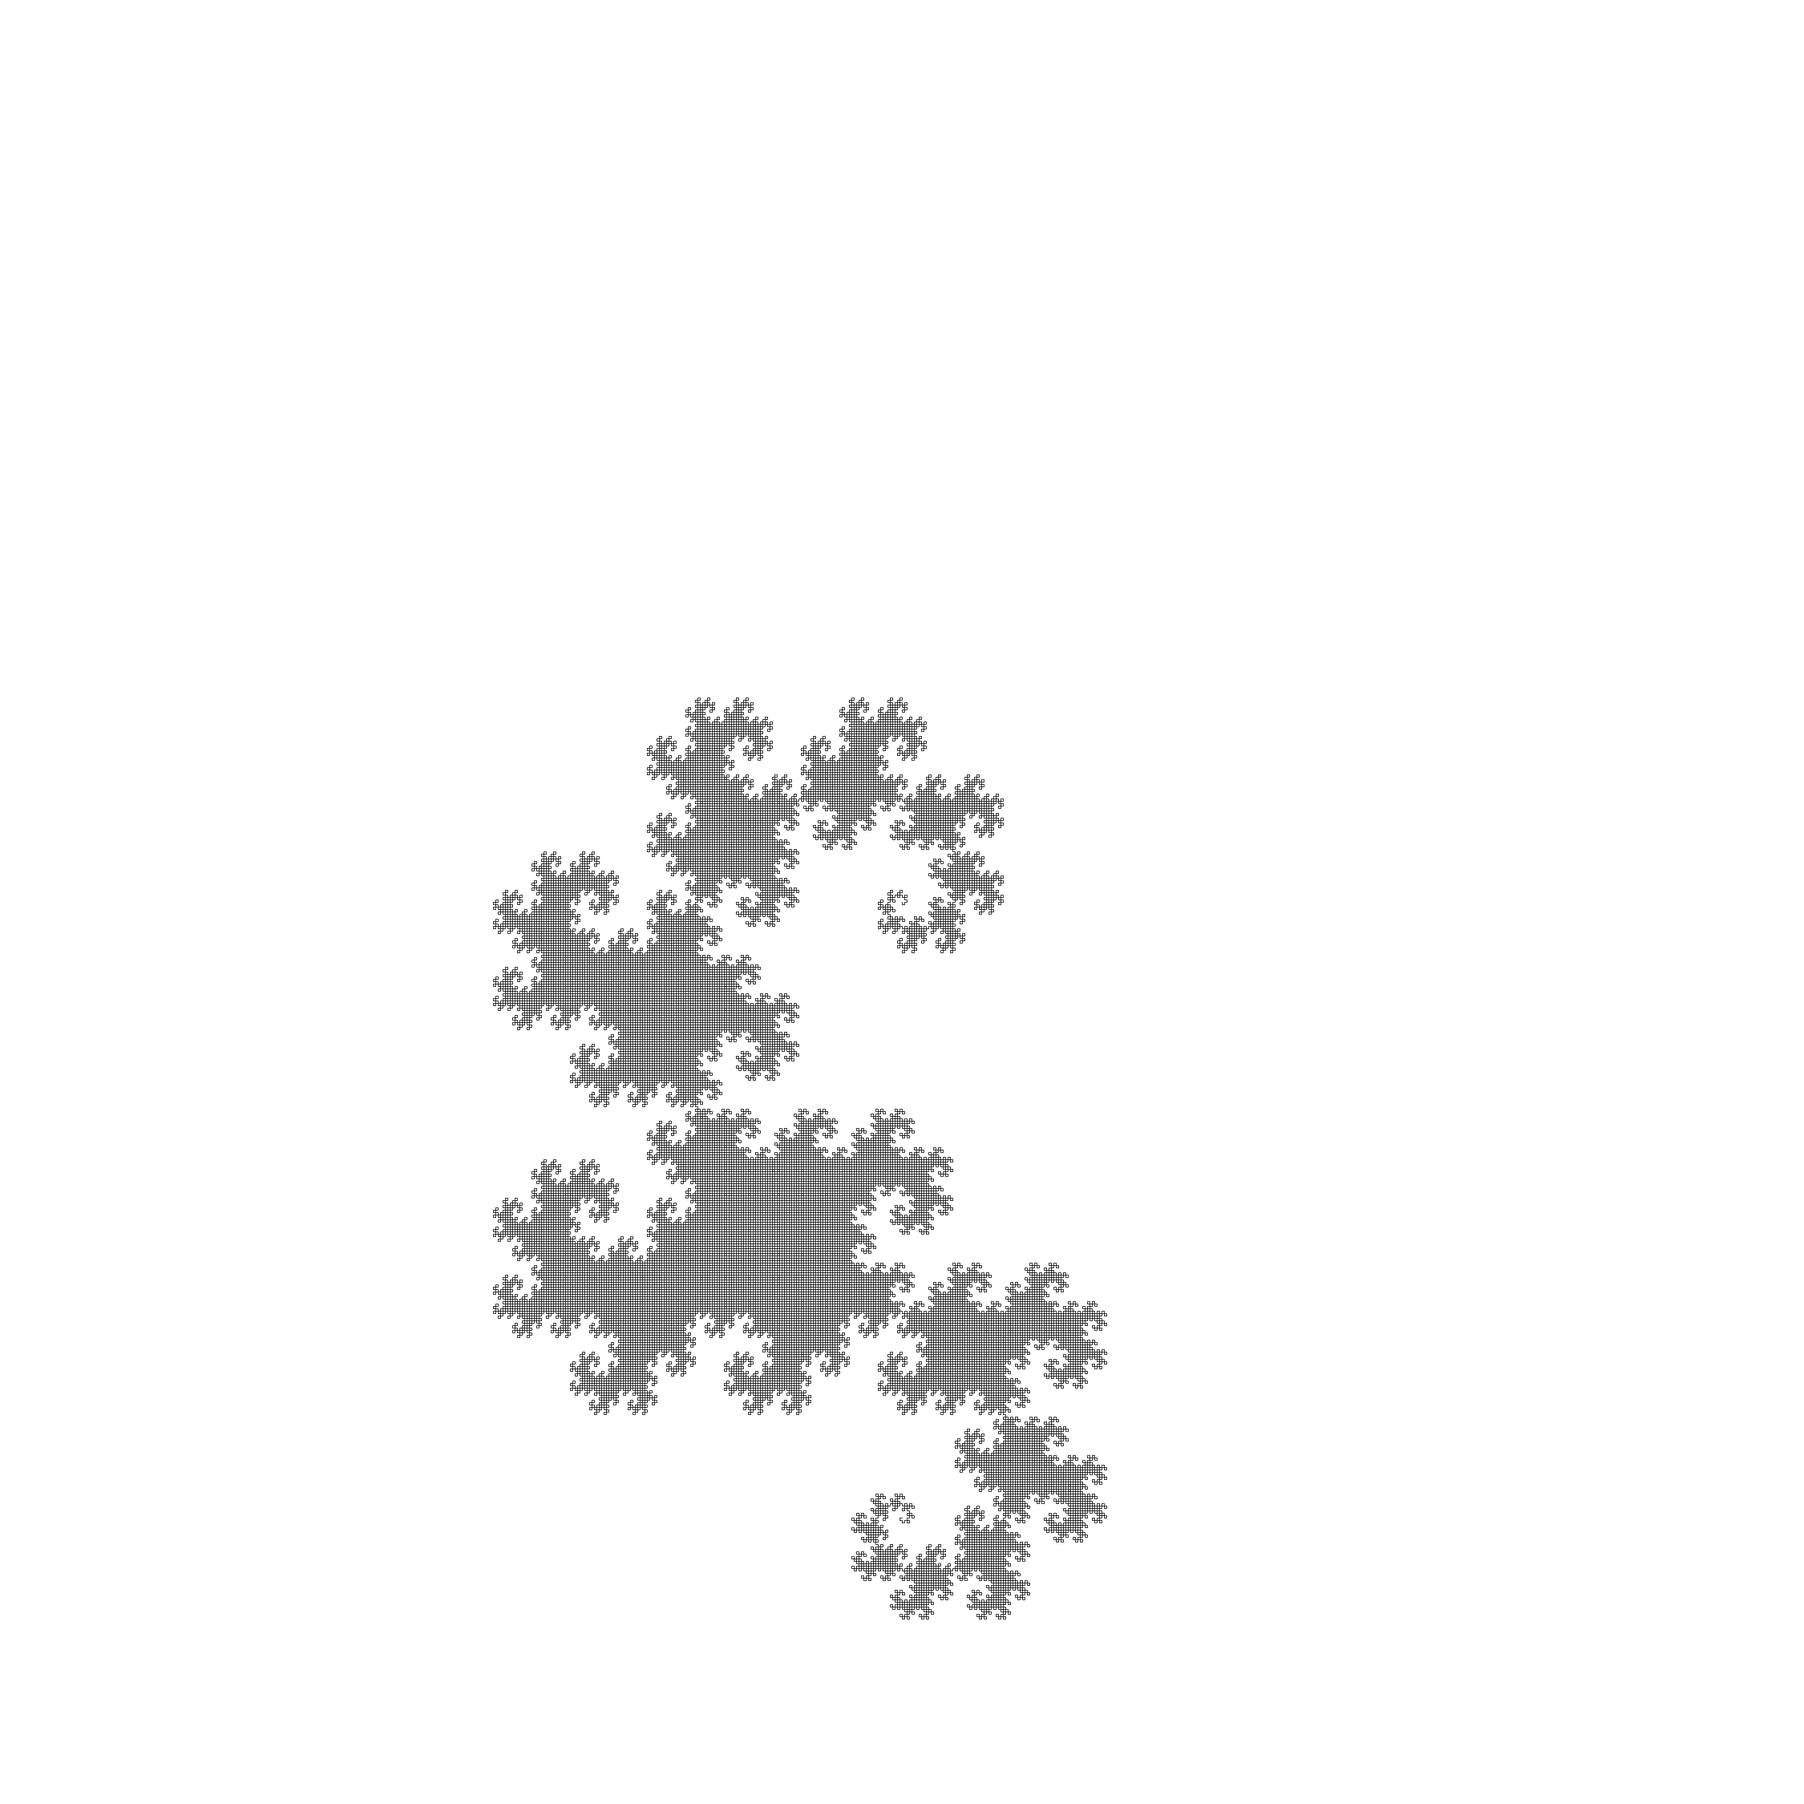
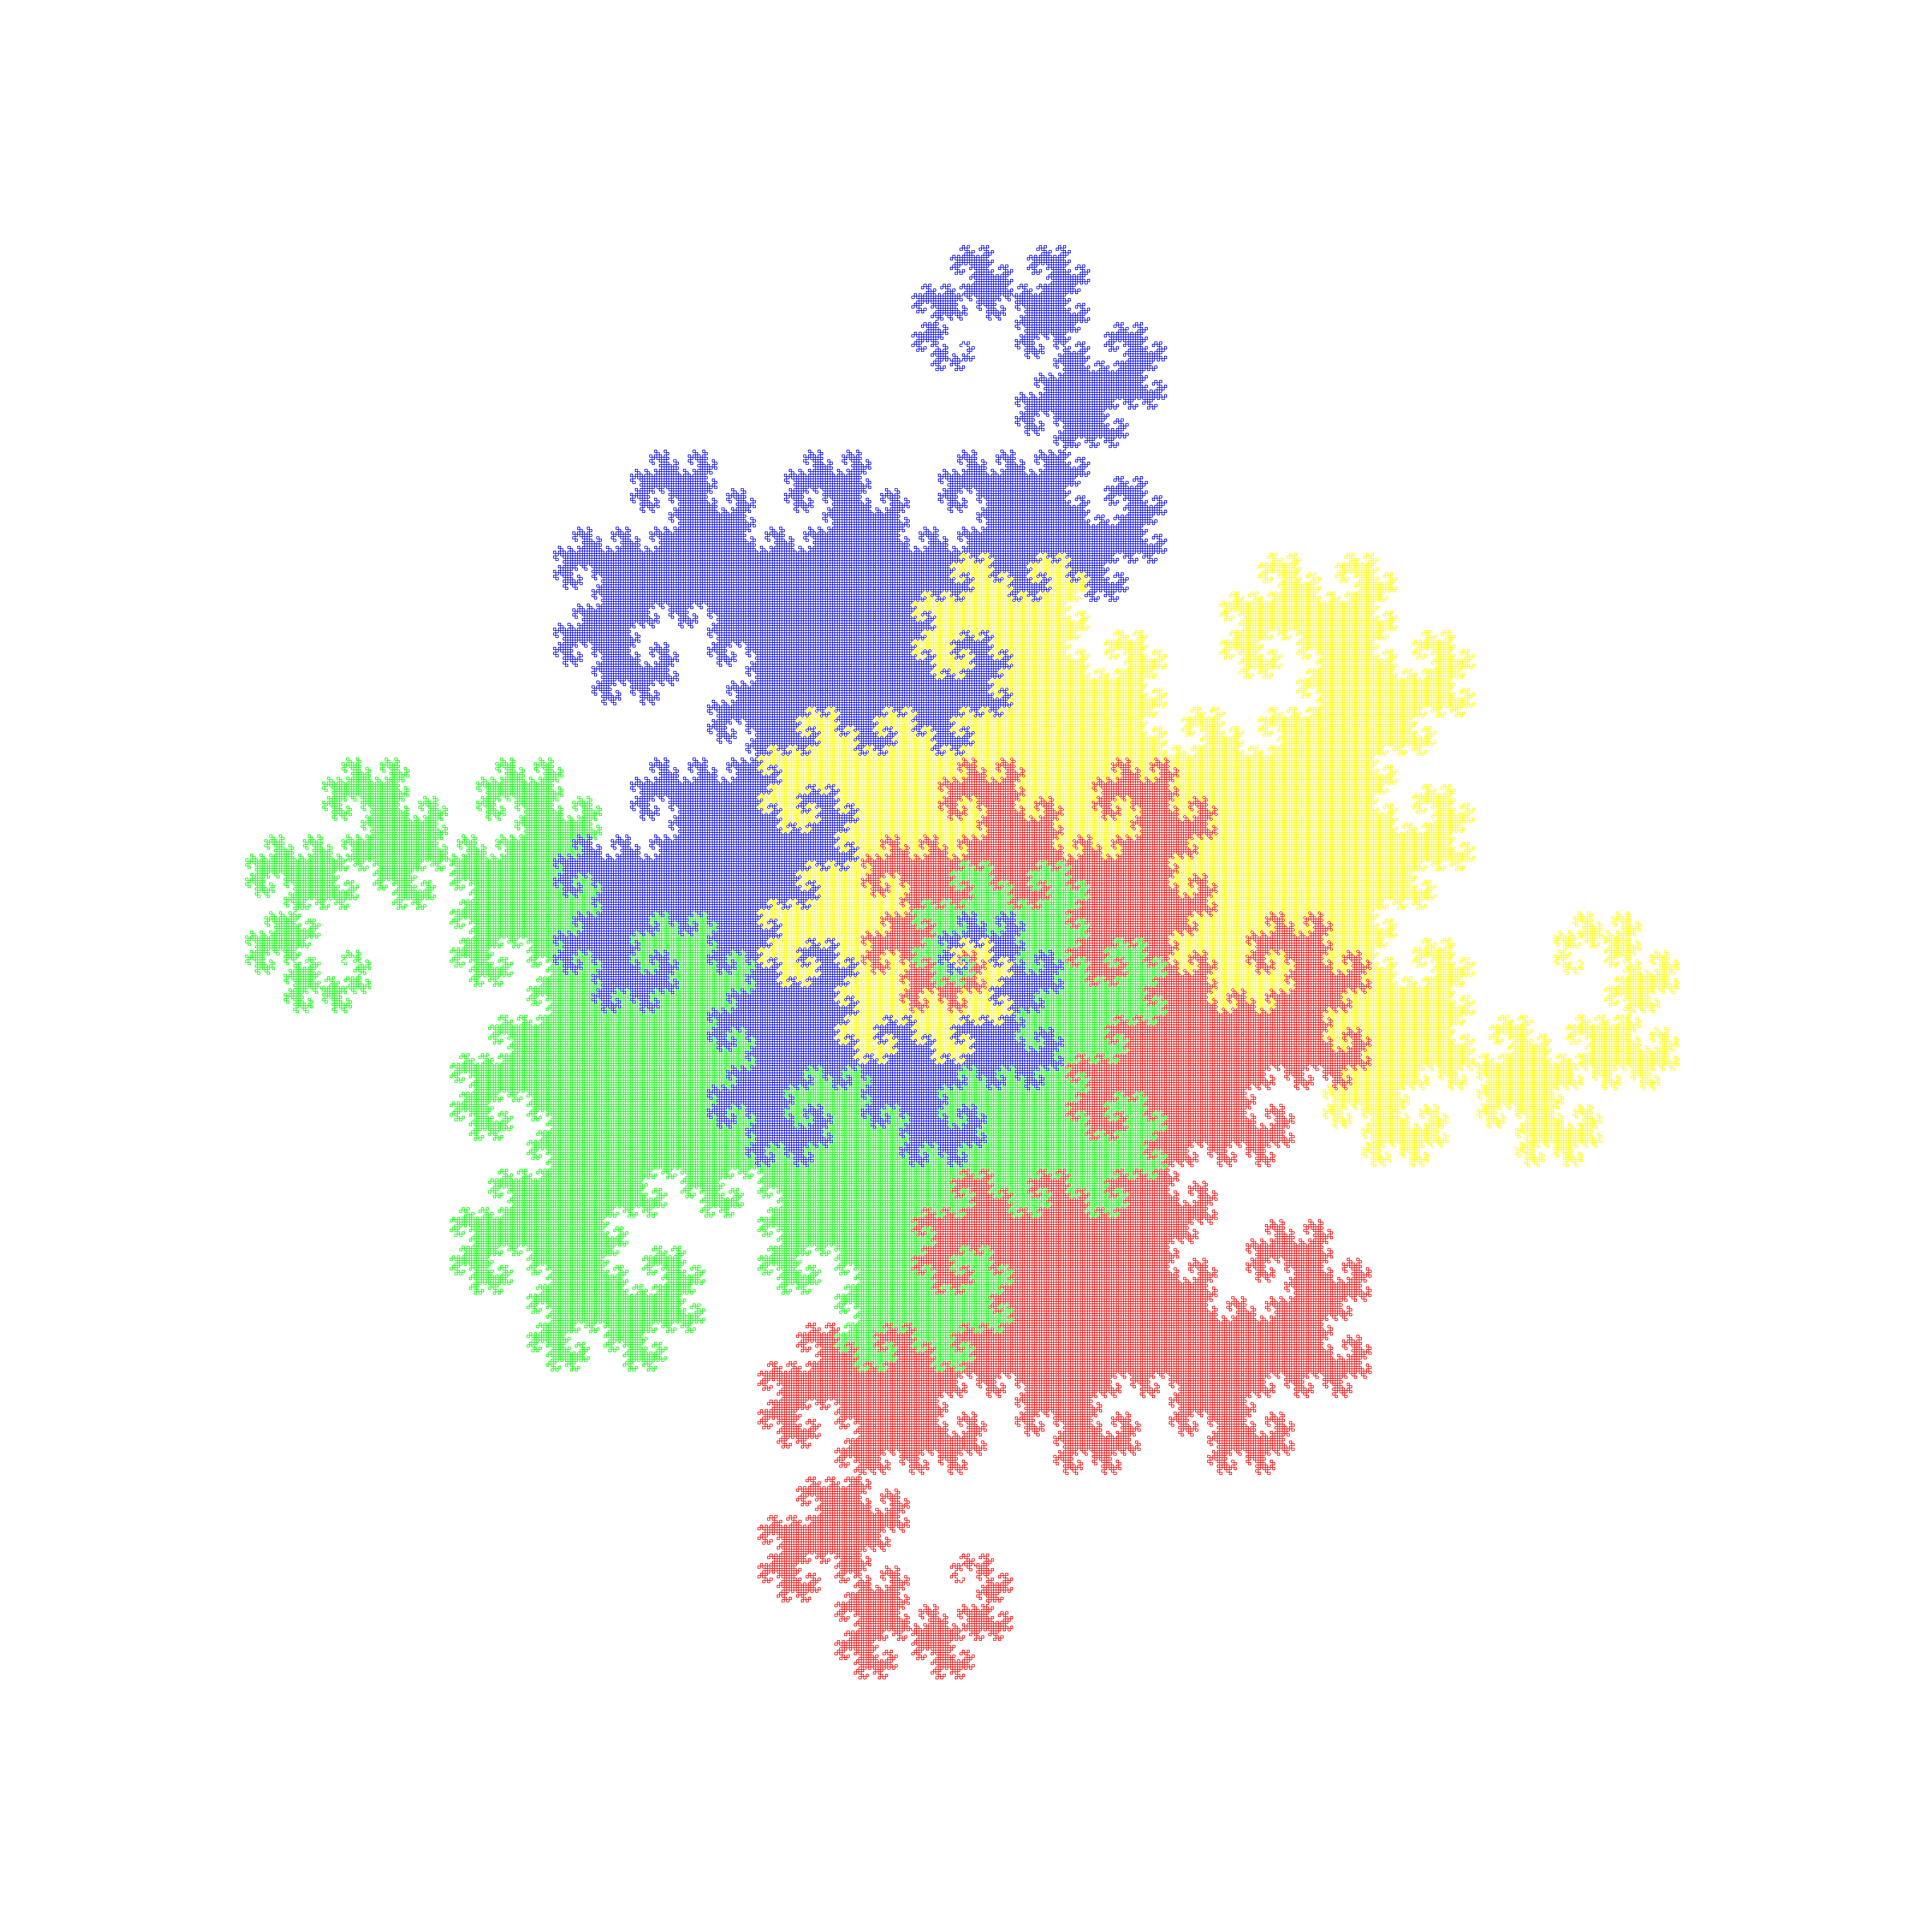
aa

Changed region(s): [[0.124, 0.124, 0.868, 0.899]]

diff --git a/src/test/java/test/puzzle/fractal/TestLSystem.java b/src/test/java/test/puzzle/fractal/TestLSystem.java
@@ -1,0 +1,135 @@
+package test.puzzle.fractal;
+
+import static org.junit.Assert.assertFalse;
+import static org.junit.jupiter.api.Assertions.assertEquals;
+
+import java.awt.Color;
+import java.io.File;
+import java.io.IOException;
+import java.util.Deque;
+import java.util.Iterator;
+import java.util.LinkedList;
+import java.util.Map;
+
+import org.junit.jupiter.api.Test;
+
+import puzzle.fractal.ImageWriter;
+import puzzle.fractal.LSystem;
+
+class TestLSystem {
+
+    /**
+     * 例1：藻類 L-system 誕生の契機となった、藻類の成長を記述する例。
+     *
+     * <pre>
+     * V ： A, B
+     * S ： なし
+     * ω ： A
+     * P ： (A → AB), (B → A)
+     *
+     * 順次計算してゆくと、文字列は以下のように成長する。
+     *
+     * n = 0 ： A
+     * n = 1 ： AB
+     * n = 2 ： ABA
+     * n = 3 ： ABAAB
+     * n = 4 ： ABAABABA
+     * </pre>
+     */
+    @Test
+    void test藻類() {
+        LSystem 藻類 = LSystem.of("A", "A", "AB", "B", "A");
+        Iterator<String> it = 藻類.stream(5).iterator();
+        assertEquals("A", it.next());
+        assertEquals("AB", it.next());
+        assertEquals("ABA", it.next());
+        assertEquals("ABAAB", it.next());
+        assertEquals("ABAABABA", it.next());
+        assertFalse(it.hasNext());
+    }
+
+    @Test
+    void testDragonCurve() {
+        LSystem dragon = LSystem.of("F", "F", "F+G", "G", "F-G");
+        assertEquals("F", dragon.generation(0));
+        assertEquals("F+G", dragon.generation(1));
+        assertEquals("F+G+F-G", dragon.generation(2));
+        Iterator<String> it = dragon.stream(5).iterator();
+        assertEquals("F", it.next());
+        assertEquals("F+G", it.next());
+        assertEquals("F+G+F-G", it.next());
+        assertEquals("F+G+F-G+F+G-F-G", it.next());
+        assertEquals("F+G+F-G+F+G-F-G+F+G+F-G-F+G-F-G", it.next());
+        assertFalse(it.hasNext());
+    }
+
+    @Test
+    void testDragonCurveImage() throws IOException {
+        LSystem dragon = LSystem.of("F", "F", "F+G", "G", "F-G");
+        Point size = Point.of(3200, 3200);
+        Point start = size.divide(2);
+        String gen = dragon.generation(16);
+        Color[] colors = {Color.RED, Color.GREEN, Color.BLUE, Color.YELLOW};
+        try (ImageWriter iw = new ImageWriter((int) size.x, (int) size.y)) {
+            TurtleGraphics turtle = new TurtleGraphics(iw.graphics);
+            Map<String, Runnable> actions = Map.of("F", () -> turtle.forward(), "G", () -> turtle.forward(), "+",
+                () -> turtle.rotate(90), "-", () -> turtle.rotate(-90));
+            Point unit = Point.of(0, 4);
+            for (Color color : colors) {
+                turtle.go(start);
+                turtle.unit(unit);
+                turtle.color(color);
+                turtle.run(gen, actions);
+                unit = unit.rotate(90);
+            }
+            iw.writeTo(new File("data/dragon.png"));
+        }
+    }
+
+    /**
+     * Example 7: Fractal plant
+     * 
+     * <pre>
+     * See also: Barnsley fern
+     * variables : X F
+     * constants : + − [ ]
+     * start  : X
+     * rules  : (X → F+[[X]-X]-F[-FX]+X), (F → FF)
+     * angle  : 25°
+     * </pre>
+     * 
+     * Here, F means "draw forward", − means "turn right 25°", and + means "turn
+     * left 25°". X does not correspond to any drawing action and is used to control
+     * the evolution of the curve. The square bracket "[" corresponds to saving the
+     * current values for position and angle, which are restored when the
+     * corresponding "]" is executed.
+     * 
+     * @throws IOException
+     */
+    @Test
+    void testFractalPlant() throws IOException {
+        LSystem plant = LSystem.of("X", "X", "F+[[X]-X]-F[-FX]+X", "F", "FF");
+        int size = 800;
+        Point area = Point.of(size, size);
+        String gen = plant.generation(6);
+        System.out.println(gen);
+        try (ImageWriter iw = new ImageWriter((int) area.x, (int) area.y)) {
+            TurtleGraphics turtle = new TurtleGraphics(iw.graphics);
+            Deque<Point> sc = new LinkedList<>();
+            Deque<Point> su = new LinkedList<>();
+            Map<String, Runnable> actions = Map.of(
+                "F", () -> turtle.forward(),
+                "X", () -> {},
+                "+", () -> turtle.rotate(25),
+                "-", () -> turtle.rotate(-25),
+                "[", () -> { sc.push(turtle.current); su.push(turtle.unit); },
+                "]", () -> { turtle.go(sc.pop()); turtle.unit(su.pop()); });
+            turtle.color(new Color(0x008000));
+            turtle.go(Point.of(size / 2, size));
+            turtle.unit(Point.of(0, -4));
+            turtle.run(gen, actions);
+            iw.writeTo(new File("data/plant.png"));
+        }
+
+    }
+}

diff --git a/src/test/java/test/puzzle/fractal/TurtleGraphics.java b/src/test/java/test/puzzle/fractal/TurtleGraphics.java
@@ -1,0 +1,41 @@
+package test.puzzle.fractal;
+
+import java.awt.Color;
+import java.awt.Graphics2D;
+import java.util.Map;
+
+public class TurtleGraphics {
+    
+    public final Graphics2D g;
+    public Point current = Point.of(0, 0), unit = Point.of(0, 5);
+    public boolean penDown = true;
+    
+    public TurtleGraphics(Graphics2D g) {
+        this.g = g;
+    }
+    
+    public void penDown() { penDown = true; }
+    public void penUp() { penDown = false; }
+    public void color(Color c) { g.setColor(c); }
+    public Color color() { return g.getColor(); }
+    
+    public void go(Point x) { current = x; }
+    public void unit(Point x) { unit = x; }
+
+    public void forward() {
+        Point next = current.add(unit);
+        if (penDown)
+            g.drawLine((int)current.x, (int)current.y, (int)next.x, (int)next.y);
+        current = next;
+    }
+    
+    public void rotate(int degree) {
+        unit = unit.rotate(degree);
+    }
+    
+    public void run(String input, Map<String, Runnable> actions) {
+        for (char c : input.toCharArray())
+            actions.get(Character.toString(c)).run();
+    }
+
+}

diff --git a/src/test/java/test/puzzle/fractal/Point.java b/src/test/java/test/puzzle/fractal/Point.java
@@ -1,0 +1,34 @@
+package test.puzzle.fractal;
+
+public class Point {
+    
+    public final double x, y;
+    
+    Point(double x, double y) {
+        this.x = x;
+        this.y = y;
+    }
+    
+    public static Point of(double x, double y) {
+        return new Point(x, y);
+    }
+    
+    public Point add(Point p) {
+        return new Point(x + p.x, y + p.y);
+    }
+    
+    public Point divide(double d) {
+        return new Point(x / d, y / d);
+    }
+    
+    public Point rotate(int degree) {
+        double radian = Math.toRadians(degree);
+        double cos = Math.cos(radian), sin = Math.sin(radian);
+        return new Point(x * cos - y * sin, x * sin + y * cos);
+    }
+    
+    @Override
+    public String toString() {
+        return "(" + x + ", " + y + ")";
+    }
+}

diff --git a/src/main/java/puzzle/fractal/LSystem.java b/src/main/java/puzzle/fractal/LSystem.java
@@ -1,5 +1,6 @@
-package puzzle;
+package puzzle.fractal;
 
+import java.awt.Color;
 import java.awt.Graphics2D;
 import java.io.File;
 import java.io.IOException;
@@ -51,6 +52,7 @@ public class LSystem {
             Map<String, Consumer<Graphics2D>> actions) throws IOException {
         try (ImageWriter iw = new ImageWriter(width, height)) {
             Graphics2D g = iw.graphics;
+            g.setColor(Color.BLUE);
             start.accept(g);
             for (char c : input.toCharArray()) {
                 Consumer<Graphics2D> action = actions.get(Character.toString(c));

diff --git a/src/test/java/test/puzzle/fractal/TestImageWriter.java b/src/test/java/test/puzzle/fractal/TestImageWriter.java
@@ -1,4 +1,4 @@
-package test.puzzle;
+package test.puzzle.fractal;
 
 import java.awt.Color;
 import java.awt.Graphics2D;
@@ -14,7 +14,7 @@ import javax.imageio.ImageIO;
 
 import org.junit.Test;
 
-import puzzle.ImageWriter;
+import puzzle.fractal.ImageWriter;
 
 public class TestImageWriter {
 

diff --git a/src/main/java/puzzle/fractal/ImageWriter.java b/src/main/java/puzzle/fractal/ImageWriter.java
@@ -1,4 +1,4 @@
-package puzzle;
+package puzzle.fractal;
 
 import java.awt.Color;
 import java.awt.Graphics2D;
@@ -34,5 +34,4 @@ public class ImageWriter implements Closeable {
     public void close() {
         graphics.dispose();
     }
-
 }
